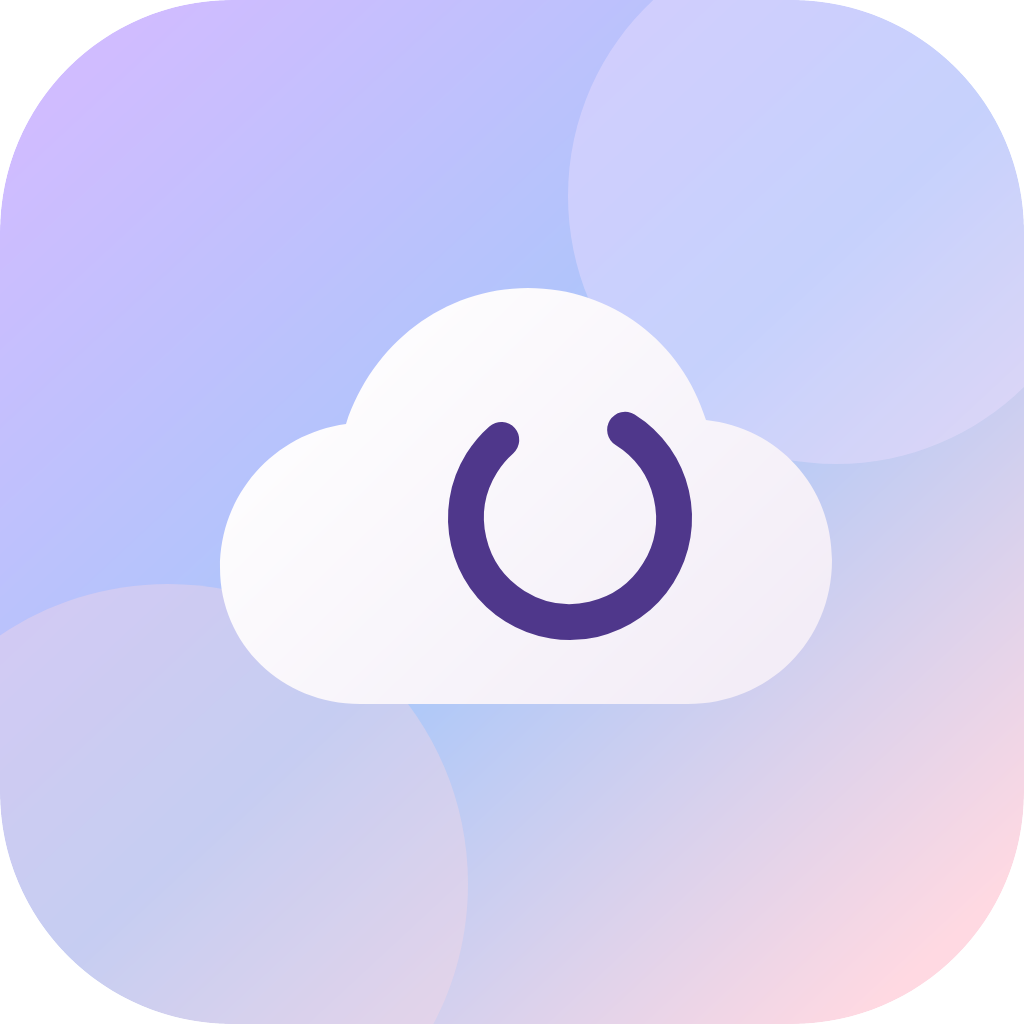
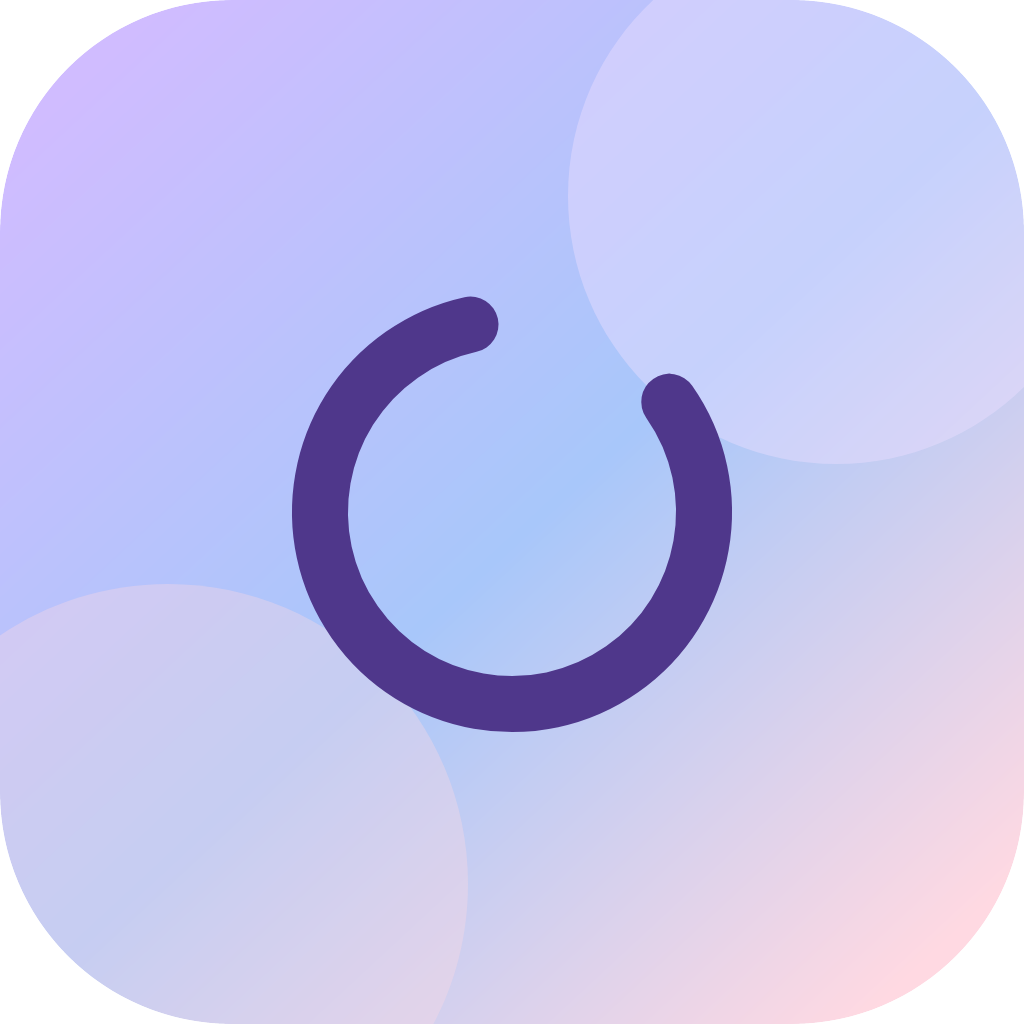
Drop the cloud from the brand mark
The Material You tile now carries only the open ring, centred, with
rounded caps and a gap in the upper right.

Changed region(s): [[0.1875, 0.2812, 0.8125, 0.7188]]

diff --git a/README.md b/README.md
@@ -272,8 +272,8 @@ it is intentionally not part of the unit test run.
 ## Branding
 
 `assets/branding/` contains the source logo files, redrawn in the Material You
-style: a lavender → blue → pink tonal tile, a flat cloud glyph and an open ring
-in deep purple (accent `#4F378B`).
+style: a lavender → blue → pink tonal tile with a single open ring in deep
+purple (accent `#4F378B`).
 
 - `opencloud-icon.svg` / `opencloud-icon-1024.png` / `-512.png` / `-256.png`
 - `opencloud-logo.svg` / `opencloud-logo.png` (icon + wordmark)
